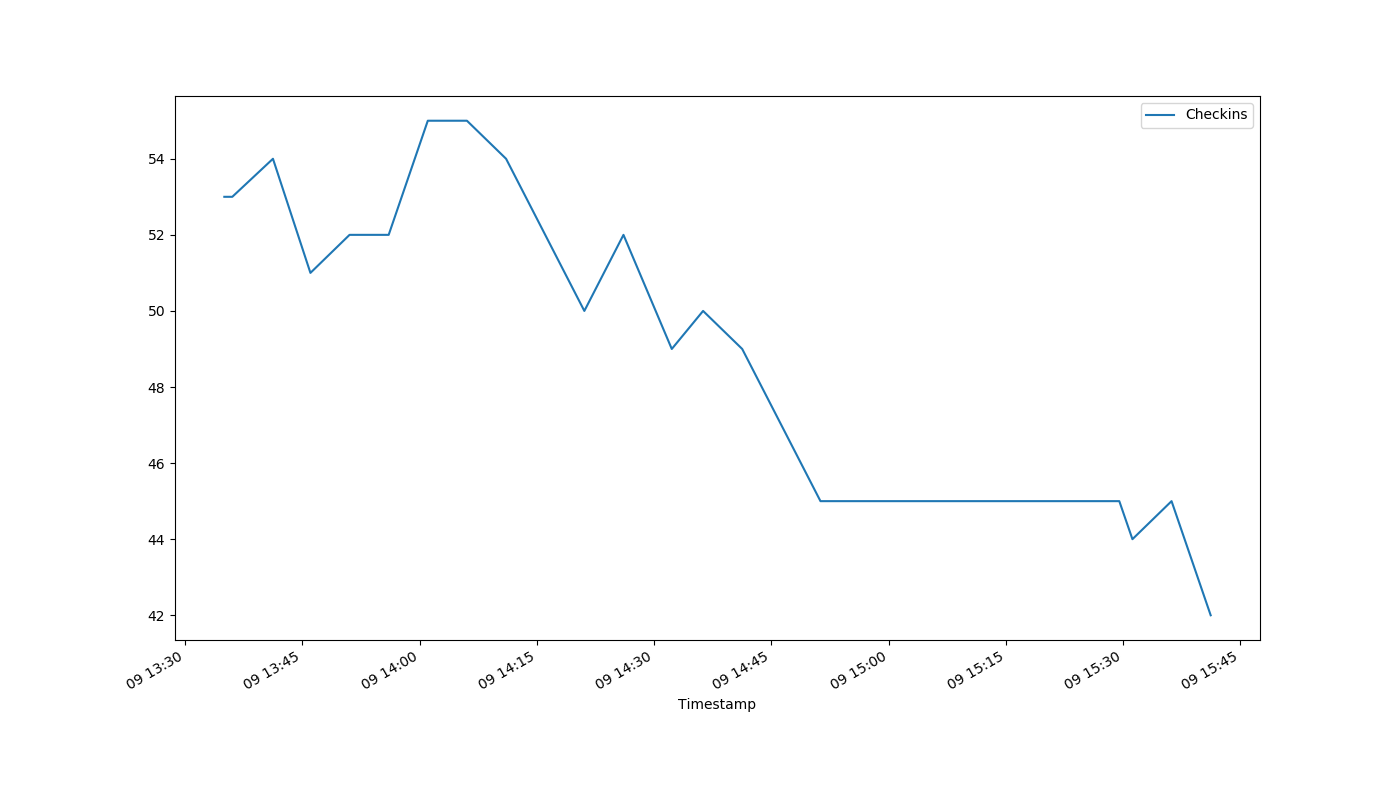
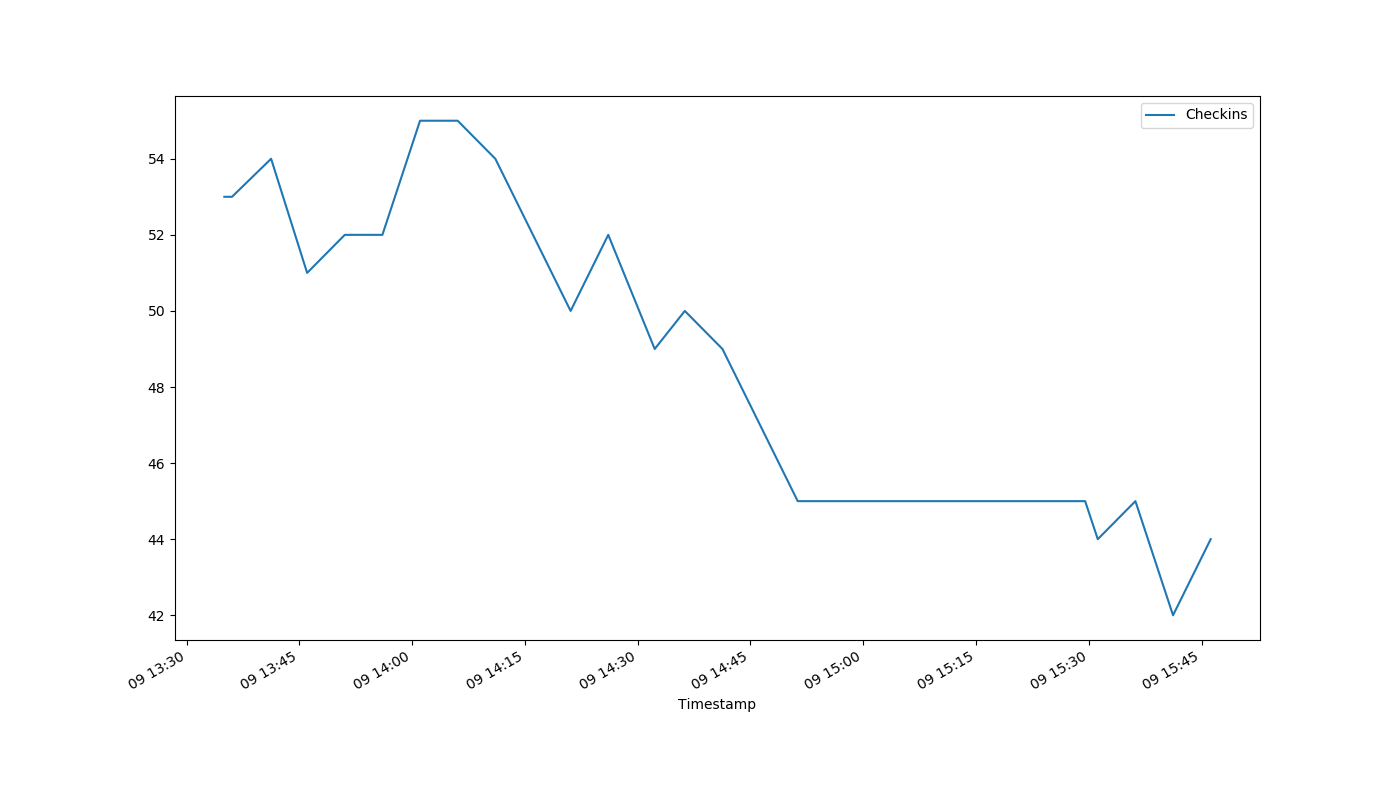
auto-Aug-09-15:49:02

diff --git a/index.html b/index.html
@@ -1,1 +1,1 @@
-<!DOCTYPE html><html><head><meta http-equiv="refresh" content="30"><link rel='stylesheet' href='holmcurrent.css'></head><body><p id='count'>42</p><div id='graph-wrap'><img id='graph' src='holmgraph-Aug-09.png'></div><p id='updated'>Last updated 15:41:13 / 15:41:12</p></body></html>
+<!DOCTYPE html><html><head><meta http-equiv="refresh" content="30"><link rel='stylesheet' href='holmcurrent.css'></head><body><p id='count'>44</p><div id='graph-wrap'><img id='graph' src='holmgraph-Aug-09.png'></div><p id='updated'>Last updated 15:47:14 / 15:46:12</p></body></html>
